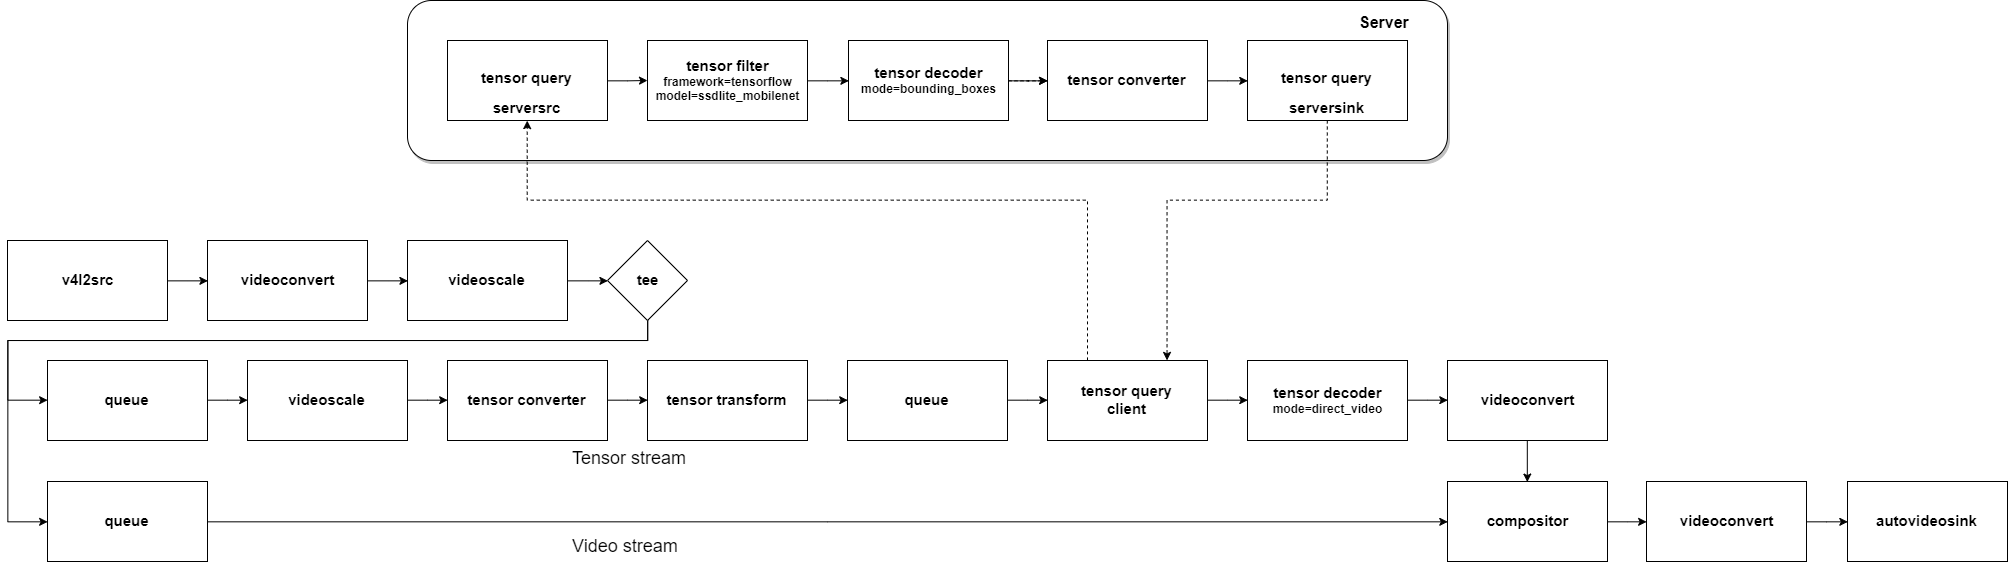
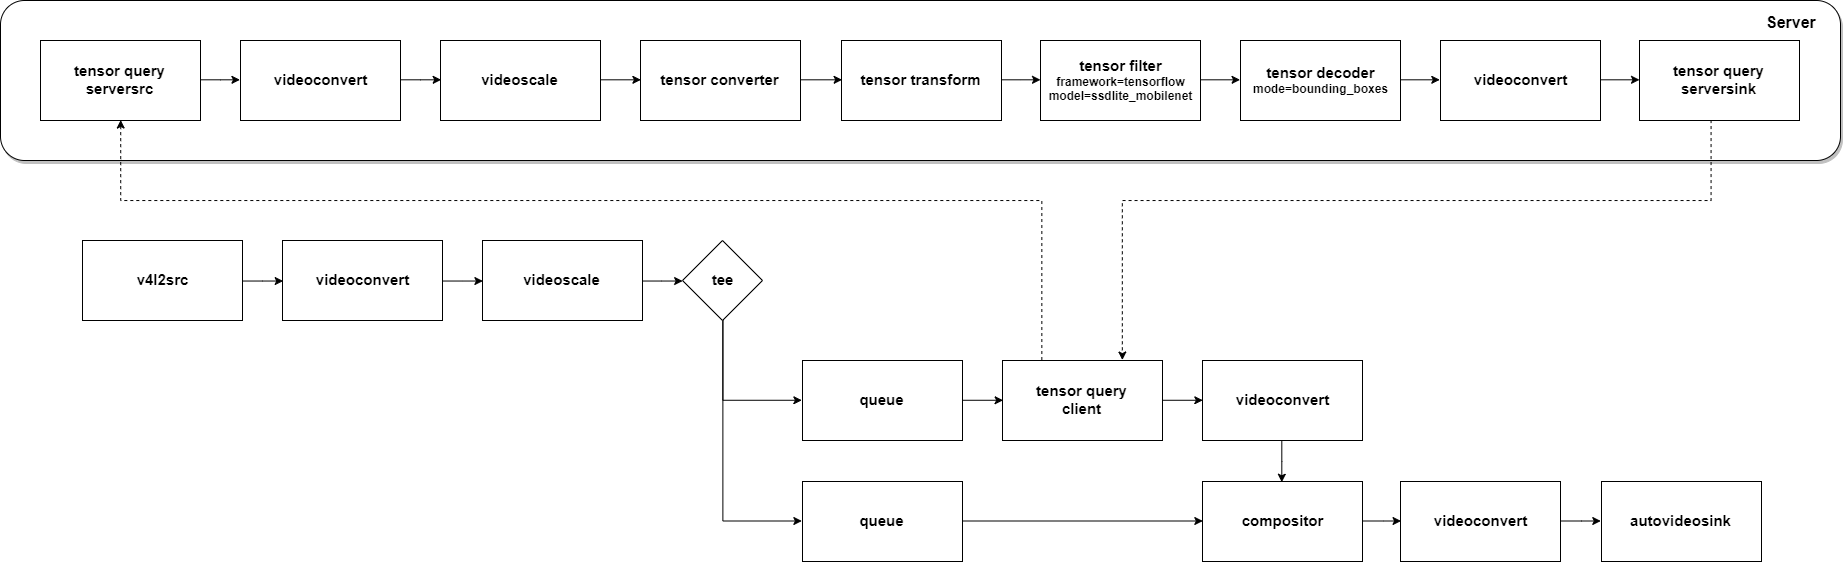
[doc] query and image update
This patch updates query and image for tutorial 4

diff --git a/Documentation/tutorials/tutorial4_query.md b/Documentation/tutorials/tutorial4_query.md
@@ -26,9 +26,12 @@ If you succeeded in streaming the video using query, let's run the object detect
 ```
 $ cd /usr/lib/nnstreamer/bin
 $ gst-launch-1.0 \
-    tensor_query_serversrc ! tensor_filter framework=tensorflow-lite model=tflite_model/ssd_mobilenet_v2_coco.tflite ! \
-    tensor_decoder mode=bounding_boxes option1=mobilenet-ssd option2=tflite_model/coco_labels_list.txt option3=tflite_model/box_priors.txt option4=640:480 option5=300:300 ! \
-    tensor_converter ! other/tensors,num_tensors=1,dimensions=4:640:480:1,types=uint8 ! tensor_query_serversink
+    tensor_query_serversrc ! video/x-raw,width=640,height=480,format=RGB,framerate=0/1 ! \
+        videoconvert ! videoscale ! video/x-raw,width=300,height=300,format=RGB ! tensor_converter ! \
+        tensor_transform mode=arithmetic option=typecast:float32,add:-127.5,div:127.5 ! \
+        tensor_filter framework=tensorflow-lite model=tflite_model/ssd_mobilenet_v2_coco.tflite ! \
+        tensor_decoder mode=bounding_boxes option1=mobilenet-ssd option2=tflite_model/coco_labels_list.txt option3=tflite_model/box_priors.txt option4=640:480 option5=300:300 ! \
+        videoconvert ! tensor_query_serversink
 ```
 
 ### Client pipeline.
@@ -37,8 +40,7 @@ $ cd /usr/lib/nnstreamer/bin
 $ gst-launch-1.0 \
     compositor name=mix sink_0::zorder=2 sink_1::zorder=1 ! videoconvert ! ximagesink \
         v4l2src ! videoconvert ! videoscale ! video/x-raw,width=640,height=480,format=RGB,framerate=10/1 ! tee name=t \
-            t. ! queue ! videoscale ! video/x-raw,width=300,height=300,format=RGB ! tensor_converter ! tensor_transform mode=arithmetic option=typecast:float32,add:-127.5,div:127.5 ! queue leaky=2 max-size-buffers=2 ! \
-                tensor_query_client ! tensor_decoder mode=direct_video ! videoconvert ! video/x-raw,width=640,height=480,format=RGBA ! mix.sink_0 \
+            t. ! queue ! tensor_query_client ! videoconvert ! mix.sink_0 \
             t. ! queue ! mix.sink_1
 ```
 
